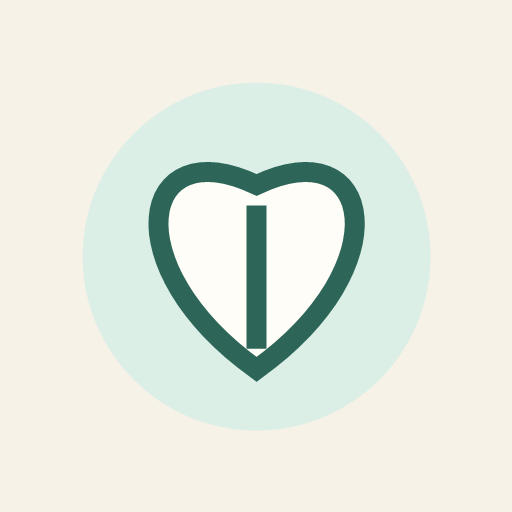
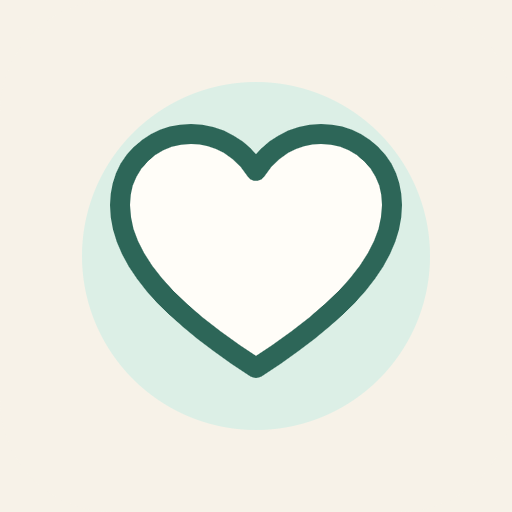
v0.4.1 記録の書き出しを修正、アイコンをハートに
データ画面の書き出しボタンが反応しない不具合を修正した。

原因: navigator.canShare({files}) はデスクトップのChrome等でも true を
返すため、常に Web Share API 経由になっていた。デスクトップでは共有シート
が表示されないまま完了し、ファイルが保存されず、例外もエラー表示も出ない
ため「押しても何も起きない」状態になっていた。

- Web Share は iOS / iPadOS でのみ使用し、それ以外はダウンロードに統一
- ダウンロード用の a 要素を document に接続してから click するよう変更
- 書き出し後に結果を表示し、無反応で終わらないようにした
- 共有シートの取り消し(AbortError)はエラー扱いにしない

あわせてデータ画面の導線を整理した。

- 常時表示する書き出しボタンをJSONバックアップの1つに集約
- 2種類のCSVは折りたたみに格納し、復元には使えない旨を明記
- 保存の永続化はストレージ状態の隣へ移動（書き出しではないため）
- 復元前に、現在の記録がすべて置き換わる旨の注意を追加

アイコンはハート内側の葉（縦線と枝）を削除し、左右対称のハートに描き直した。
旧アイコンは下端が中心から右にずれていた。

Service Worker のキャッシュ名を更新し、導入済みの端末にも反映されるようにした。

Changed region(s): [[0.1875, 0.2188, 0.8125, 0.7188], [0.5, 0.7188, 0.5312, 0.75]]

diff --git a/src/app.js b/src/app.js
@@ -326,12 +326,18 @@ function renderData() {
     <p class="privacy">記録はこの端末内に保存され、このアプリによってサーバーへ送信されません。端末、ブラウザ、Webサイトデータの削除等により失われることがあります。定期的にバックアップしてください。</p>
     <p><span class="storage-status">端末への保存: ${esc(storageLabel())}</span></p>
     <p class="privacy">${esc(storageHelp())}</p>
+    ${state.storageStatus === 'persistent' ? '' : '<div class="button-row"><button class="secondary" type="button" data-action="request-persist">記録を消えにくくする</button></div>'}
+    <hr><h3>記録をバックアップする</h3>
     <p>最後にバックアップした日時: ${state.lastBackupAt ? esc(displayDate(state.lastBackupAt)) : 'まだバックアップしていません'}</p>
-    <div class="button-row">${state.storageStatus === 'persistent' ? '' : '<button class="secondary" type="button" data-action="request-persist">記録を消えにくくする</button>'}
-      <button class="secondary" type="button" data-action="export-backup">記録をバックアップ</button>
-      <button class="secondary" type="button" data-action="export-summary">記録の一覧表を保存（CSV）</button>
-      <button class="secondary" type="button" data-action="export-series">詳しい経過を保存（CSV）</button></div>
-    <hr><h3>バックアップから記録を戻す</h3><label class="field"><span>保存してあるバックアップファイル</span><input type="file" accept="application/json,.json" data-action="import-file"></label>
+    <p class="privacy">別の端末へ記録を移すときや、端末を買い替えるときは、このファイルを保存してください。下の「バックアップから記録を戻す」で読み込めます。</p>
+    <div class="button-row"><button class="primary small" type="button" data-action="export-backup">記録をバックアップ</button></div>
+    <details class="extra"><summary>CSVで書き出す（表計算ソフト用）</summary>
+      <p class="privacy">バックアップとは別の形式です。ExcelやNumbersで見るためのもので、このファイルから記録を戻すことはできません。</p>
+      <div class="button-row"><button class="secondary" type="button" data-action="export-summary">記録の一覧表（CSV）</button>
+        <button class="secondary" type="button" data-action="export-series">詳しい経過（CSV）</button></div></details>
+    <hr><h3>バックアップから記録を戻す</h3>
+    <p class="privacy">読み込むと、<strong>この端末にある記録と設定はすべて置き換わります</strong>。この端末にも残しておきたい記録がある場合は、先に上のバックアップを保存してください。</p>
+    <label class="field"><span>保存してあるバックアップファイル</span><input type="file" accept="application/json,.json" data-action="import-file"></label>
     ${preview ? `<div class="notice"><strong>復元前の確認</strong><br>件数: ${preview.sessions.length}<br>期間: ${esc(importPeriod(preview.sessions))}<br>schemaVersion: ${preview.schemaVersion}<br>現在の全データを置換します。</div>
       <button class="secondary" type="button" data-action="confirm-import">確認して全置換</button>` : ''}
     <hr><h3>すべての記録を削除</h3><form data-form="delete-all"><label class="check"><input type="checkbox" name="confirm" required><span>${state.sessions.length}件を削除し、バックアップがなければ復元できないことを確認しました</span></label>
@@ -682,20 +688,44 @@ async function saveSessionInfo(form) {
   toast('セッション情報を保存しました。');
 }
 
+// iOS / iPadOS ではダウンロードの導線が分かりにくいため共有シートを第一手段とする。
+// デスクトップの Chrome 等も canShare({files}) が true を返すことがあるが、そこで
+// 共有APIを使うと何も起きずに終わるため、プラットフォーム判定と併用する（§17.1）。
+function isAppleTouchDevice() {
+  return /iPad|iPhone|iPod/.test(navigator.userAgent)
+    || (navigator.platform === 'MacIntel' && navigator.maxTouchPoints > 1);
+}
+
+function downloadFile(file, name) {
+  const url = URL.createObjectURL(file);
+  const link = document.createElement('a');
+  link.href = url;
+  link.download = name;
+  link.hidden = true;
+  document.body.append(link);
+  link.click();
+  link.remove();
+  setTimeout(() => URL.revokeObjectURL(url), 10000);
+}
+
 async function exportFile(name, content, type) {
   const file = new File([content], name, { type });
-  try {
-    if (navigator.canShare?.({ files: [file] })) {
+  if (isAppleTouchDevice() && navigator.canShare?.({ files: [file] })) {
+    try {
       await navigator.share({ files: [file], title: name });
-    } else {
-      const url = URL.createObjectURL(file);
-      const link = document.createElement('a');
-      link.href = url; link.download = name; link.click();
-      setTimeout(() => URL.revokeObjectURL(url), 1000);
+      return true;
+    } catch (error) {
+      if (error.name === 'AbortError') return false;
+      console.warn('Web Share failed, falling back to download', error);
     }
+  }
+  try {
+    downloadFile(file, name);
+    toast(`${name} を書き出しました。保存先を確認してください。`);
     return true;
   } catch (error) {
-    if (error.name !== 'AbortError') toast('ファイルを保存できませんでした。もう一度お試しください。');
+    console.error(error);
+    toast('ファイルを保存できませんでした。もう一度お試しいただくか、別のブラウザでお試しください。');
     return false;
   }
 }

diff --git a/styles.css b/styles.css
@@ -93,6 +93,9 @@ button:focus-visible, a:focus-visible, input:focus-visible, select:focus-visible
 .check { display: flex; align-items: flex-start; gap: 9px; line-height: 1.5; }
 .check input { width: 20px; height: 20px; margin-top: 2px; }
 .notice { padding: 13px 15px; border-radius: 12px; background: var(--yellow); line-height: 1.55; }
+.extra { margin-top: 14px; border: 1px solid var(--border); border-radius: 14px; background: var(--cream); }
+.extra summary { cursor: pointer; padding: 12px 15px; font-weight: 700; min-height: 44px; display: flex; align-items: center; }
+.extra > *:not(summary) { margin: 0 15px 12px; }
 .privacy { font-size: .92rem; line-height: 1.7; color: var(--muted); }
 .storage-status { display: inline-flex; align-items: center; gap: 7px; background: var(--sky); border-radius: 999px; padding: 7px 11px; }
 .toast-region { position: fixed; z-index: 50; left: 50%; bottom: max(18px, env(safe-area-inset-bottom)); transform: translateX(-50%); width: min(calc(100% - 24px), 480px); pointer-events: none; }

diff --git a/sw.js b/sw.js
@@ -1,5 +1,5 @@
 const CACHE_PREFIX = 'slit-symptom-tracker-app-';
-const CACHE_NAME = `${CACHE_PREFIX}0.4.0-20260820.2`;
+const CACHE_NAME = `${CACHE_PREFIX}0.4.1-20260822`;
 const APP_SHELL = [
   './', './index.html', './styles.css', './manifest.webmanifest',
   './src/app.js', './src/model.js', './src/db.js', './src/export.js', './src/charts.js',

diff --git a/src/model.js b/src/model.js
@@ -1,4 +1,4 @@
-export const APP_VERSION = '0.4.0';
+export const APP_VERSION = '0.4.1';
 export const SCHEMA_VERSION = 1;
 export const AUTO_CLOSE_MINUTES = 60;
 export const SEVERITIES = [0, 1, 2, 3, 4, 5];

diff --git a/README.md b/README.md
@@ -1,4 +1,4 @@
-# SLIT Symptom Tracker v0.4.0
+# SLIT Symptom Tracker v0.4.1
 
 舌下免疫療法の服用後に、主観的な局所症状の強さと時間経過を記録する、iPhone向けの静的PWAです。
 
